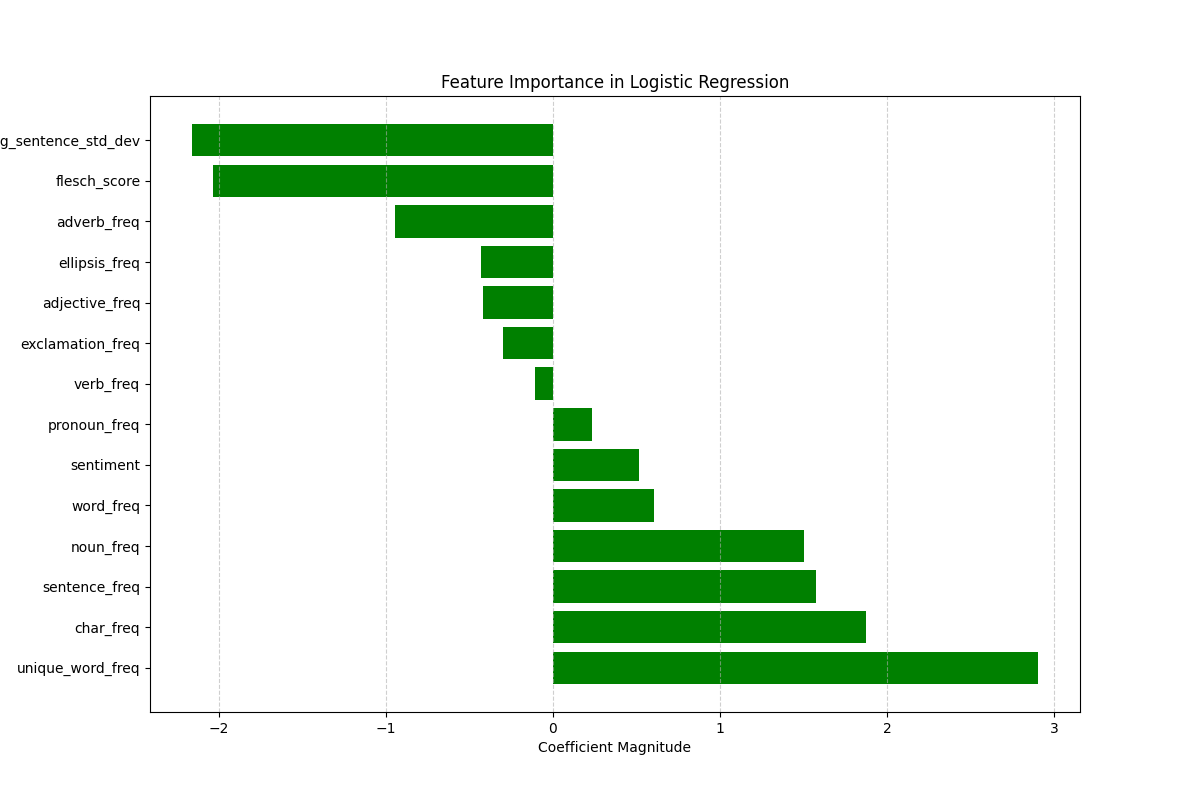
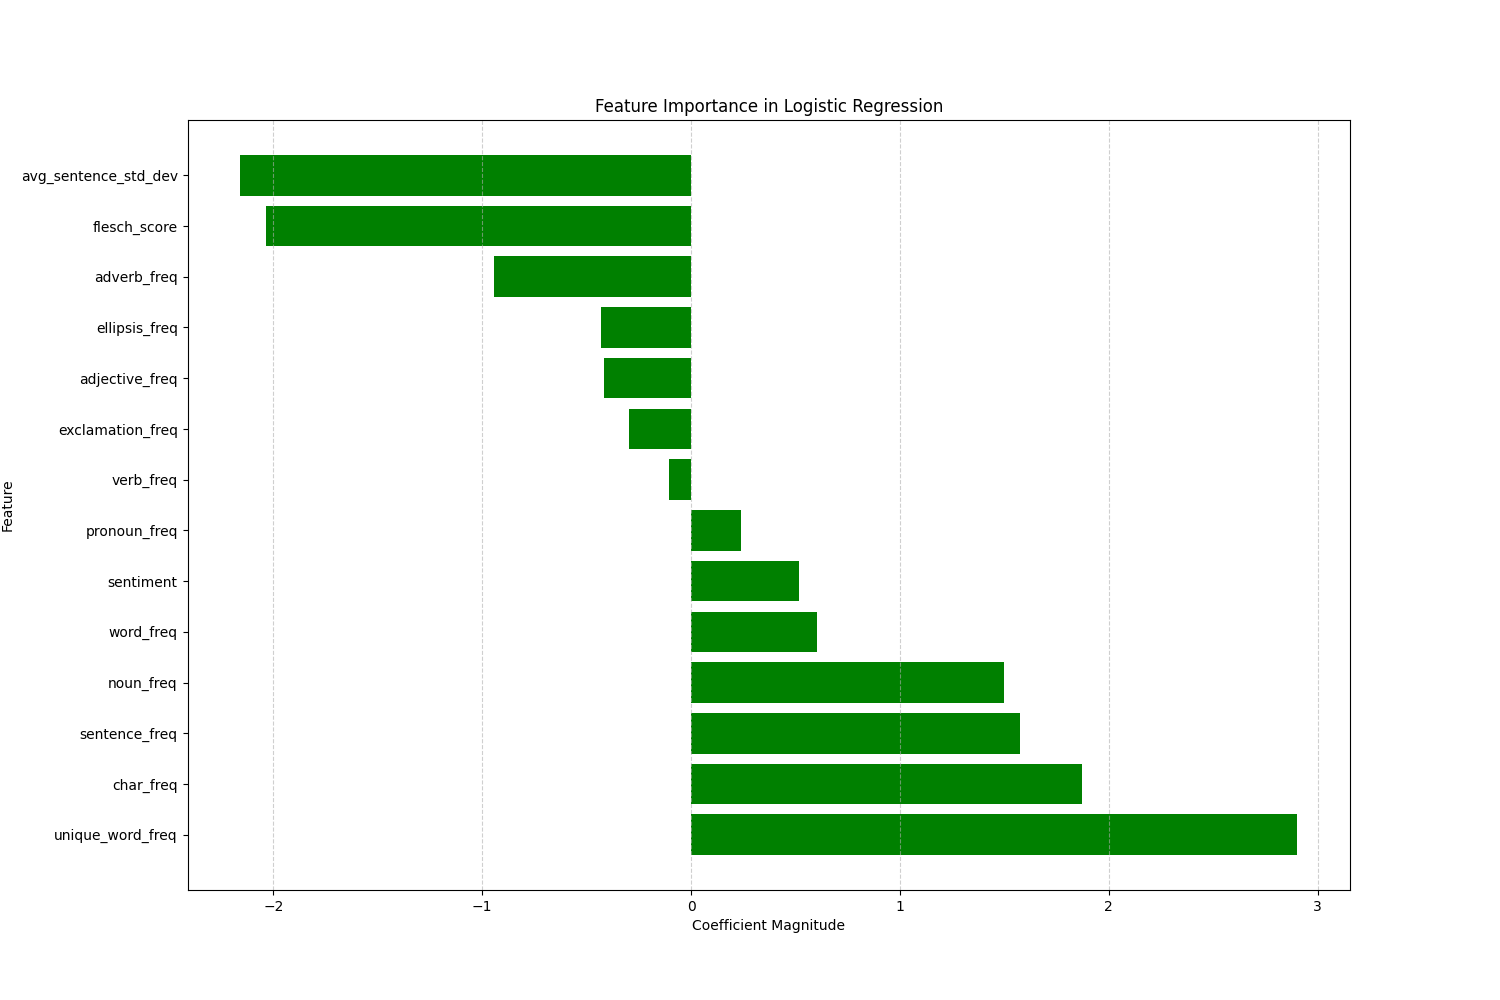
Update figure diemsions

diff --git a/experiment1_classifier.py b/experiment1_classifier.py
@@ -99,7 +99,7 @@ def plot_logistic_feature_importance(model):
     df = df.sort_values(by='coeff', ascending=False)
 
     # Plotting
-    plt.figure(figsize=(12, 8))
+    plt.figure(figsize=(15,10))
     plt.barh(df['feature'], df['coeff'], color='green')
     plt.xlabel('Coefficient Magnitude')
     plt.ylabel('Feature')
